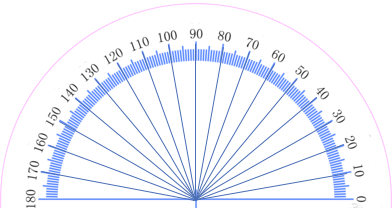
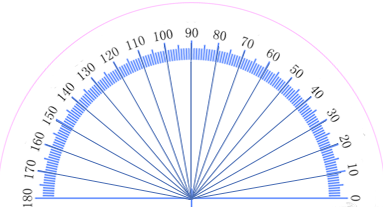
sunrise-commit-m2sjy-cb

diff --git a/exercises/m2sjy-cb.html b/exercises/m2sjy-cb.html
@@ -1,0 +1,149 @@
+<!DOCTYPE html>
+<html data-require="math math-format graphie time interactive word-problems">
+<head>
+    <meta http-equiv="Content-Type" content="text/html; charset=UTF-8">
+    <title>利用量角器畫角度</title>
+    <script src="../khan-exercise.js"></script>
+    <script language="javascript">
+        function polar(r, th) {
+            if (typeof r === "number") {
+                r = [r, r];
+            }
+            th = th * Math.PI / 180;
+            return [r[0] * Math.cos(th), r[1] * Math.sin(th)];
+        }
+    </script>
+</head>
+<body>
+	<div class="exercise">
+    <div class="problems">
+		<div id="case1">
+            <div class="vars">
+				<var id="clockRadius">7.7</var>
+				<var id="outerPointRadius">clockRadius * 1.01</var>
+                <var id="N">randRange(2, 34) * 5</var>
+                <var id="R">polar(clockRadius, N)</var>
+			</div>
+			
+			<div class="question">
+				<p>請點選紅色圓點，拉出角度為 <code><var>N</var>^\circ</code> 的角。</p>
+			</div>
+			<div class="problem">
+				<div class="graphie" id="clock">
+                        init({ range: [[-11, 11], [-9, 9]], scale: 20 });
+                        
+                        hourStartAngle = 0;
+                        addMouseLayer();
+
+                        graph.protractor = new Protractor( [0, 0] );
+                        line([-10, 0], [10, 0]);
+                        circle([0, 0], 0.3, { stroke : KhanUtil.BLUE, fill : KhanUtil.BLUE });
+                        circle([-10, 0], 0.3, { stroke : KhanUtil.BLUE, fill : KhanUtil.BLUE });
+                        circle([10, 0], 0.3, { stroke : KhanUtil.BLUE, fill : KhanUtil.BLUE });
+                        
+                        function movePartnerPoint(options) {
+                            var x = options.x;
+                            var y = options.y;
+                            var point = options.point;
+                            var outerPoint = options.outerPoint;
+                            var isOuterPoint = options.isOuterPoint;
+                
+                            var ratio = outerPoint.constraints.fixedDistance.dist / point.constraints.fixedDistance.dist;
+                            if (isOuterPoint) {
+                                ratio = 1 / ratio;
+                                point.setCoord([x * ratio , y * ratio]);
+                                outerPoint.setCoord([x, y]);
+                            } else {
+                                point.setCoord([x, y]);
+                                outerPoint.setCoord([x * ratio, y * ratio]);
+                            }
+
+                            point.updateLineEnds();
+                            return point;
+                        }
+
+                        hourPoint = addMovablePoint({
+                            coord: polar(clockRadius, hourStartAngle),
+                            constraints: {
+                                fixedDistance: {
+                                    dist: clockRadius,
+                                    point: [0, 0],
+                                    snapPoints: 72
+                                }
+                            },
+                            onMove: function(x, y) {
+                                return movePartnerPoint({ x: x, y: y, point: this, outerPoint: outerHourPoint, isOuterPoint: false });
+                            },
+                            normalStyle: {
+                                fill: RED,
+                                stroke: RED
+                            },
+                            highlightStyle: {
+                                fill: RED,
+                                stroke: RED
+                            }
+                        });
+
+                        outerHourPoint = addMovablePoint({
+                            coord: polar(outerPointRadius, hourStartAngle),
+                            constraints: {
+                                fixedDistance: {
+                                    dist: outerPointRadius,
+                                    point: [0, 0],
+                                    snapPoints: 72
+                                }
+                            },
+                            onMove: function(x, y) {
+                                return movePartnerPoint({ x: x, y: y, point: hourPoint, outerPoint: this, isOuterPoint: true });
+                            },
+                            normalStyle: {
+                                fill: RED,
+                                stroke: RED
+                            },
+                            highlightStyle: {
+                                fill: RED,
+                                stroke: RED
+                            }
+                        });
+
+                        hourHand = addMovableLineSegment({
+                            pointA: hourPoint,
+                            coordZ: [0, 0],
+                            fixed: true,
+                            normalStyle: {
+                                stroke: GREEN,
+                                "stroke-width": 2
+                            }
+                        });
+
+                    </div>
+			</div>
+            <div class="solution" data-type="multiple">
+				<div class="instruction">請點選紅色圓點並拉出角度</div>
+				<div class="sol" data-type="custom">
+				    <div class="guess">hourPoint.coord</div>
+				    <div class="validator-function">
+                        if(abs(guess[0] - 7.7) &lt; 0.0001 &amp;&amp; abs(guess[1] - 0 &lt; 0.0001)){
+                            return "";
+                        }else{
+                            return abs(guess[0] - R[0]) &lt; 0.0001 &amp;&amp; abs(guess[1] - R[1]) &lt; 0.0001;
+                        }
+                    </div>
+				</div>
+            </div>
+			
+			<div class="hints">
+                <div class="graphie" data-update="clock">
+                    graph.protractor.moveTo(0, 0);
+                    var outEnd = polar(clockRadius, N);
+                    var outerEnd = polar(outerPointRadius, N);
+                    hourPoint.onMove(outEnd[0], outEnd[1]);
+                    outerHourPoint.onMove(outerEnd[0], outerEnd[1]);
+                </div>
+            </div>
+		</div>
+		
+	</div>
+	</div>
+</body>
+</html>

diff --git a/utils/interactive.js b/utils/interactive.js
@@ -2251,9 +2251,9 @@ function Protractor(center) {
     var lineColor = "#789";
     var pro = this;
 
-    var r = 8.05;
-    var imgPos = graph.scalePoint([this.cx - r, this.cy + r - 0.225]);
-    this.set.push(graph.mouselayer.image(Khan.urlBase + "images/protractor.png", imgPos[0], imgPos[1], 322, 161));
+    var r = 8;
+    var imgPos = graph.scalePoint([this.cx - r + 0.225, this.cy + r - 0.225]);
+    this.set.push(graph.mouselayer.image(Khan.urlBase + "images/protractors.png", imgPos[0], imgPos[1], 312, 161));
     DrawInteractiveBoundry(graph);
 
     // Customized polar coordinate thingie to make it easier to draw the double-headed arrow thing.
@@ -2416,7 +2416,7 @@ function Protractor(center) {
         });
     };
 
-    this.set.attr({ opacity: 0.5 });
+    this.set.attr({ opacity: 1 });
     this.makeTranslatable();
     return this;
 }
